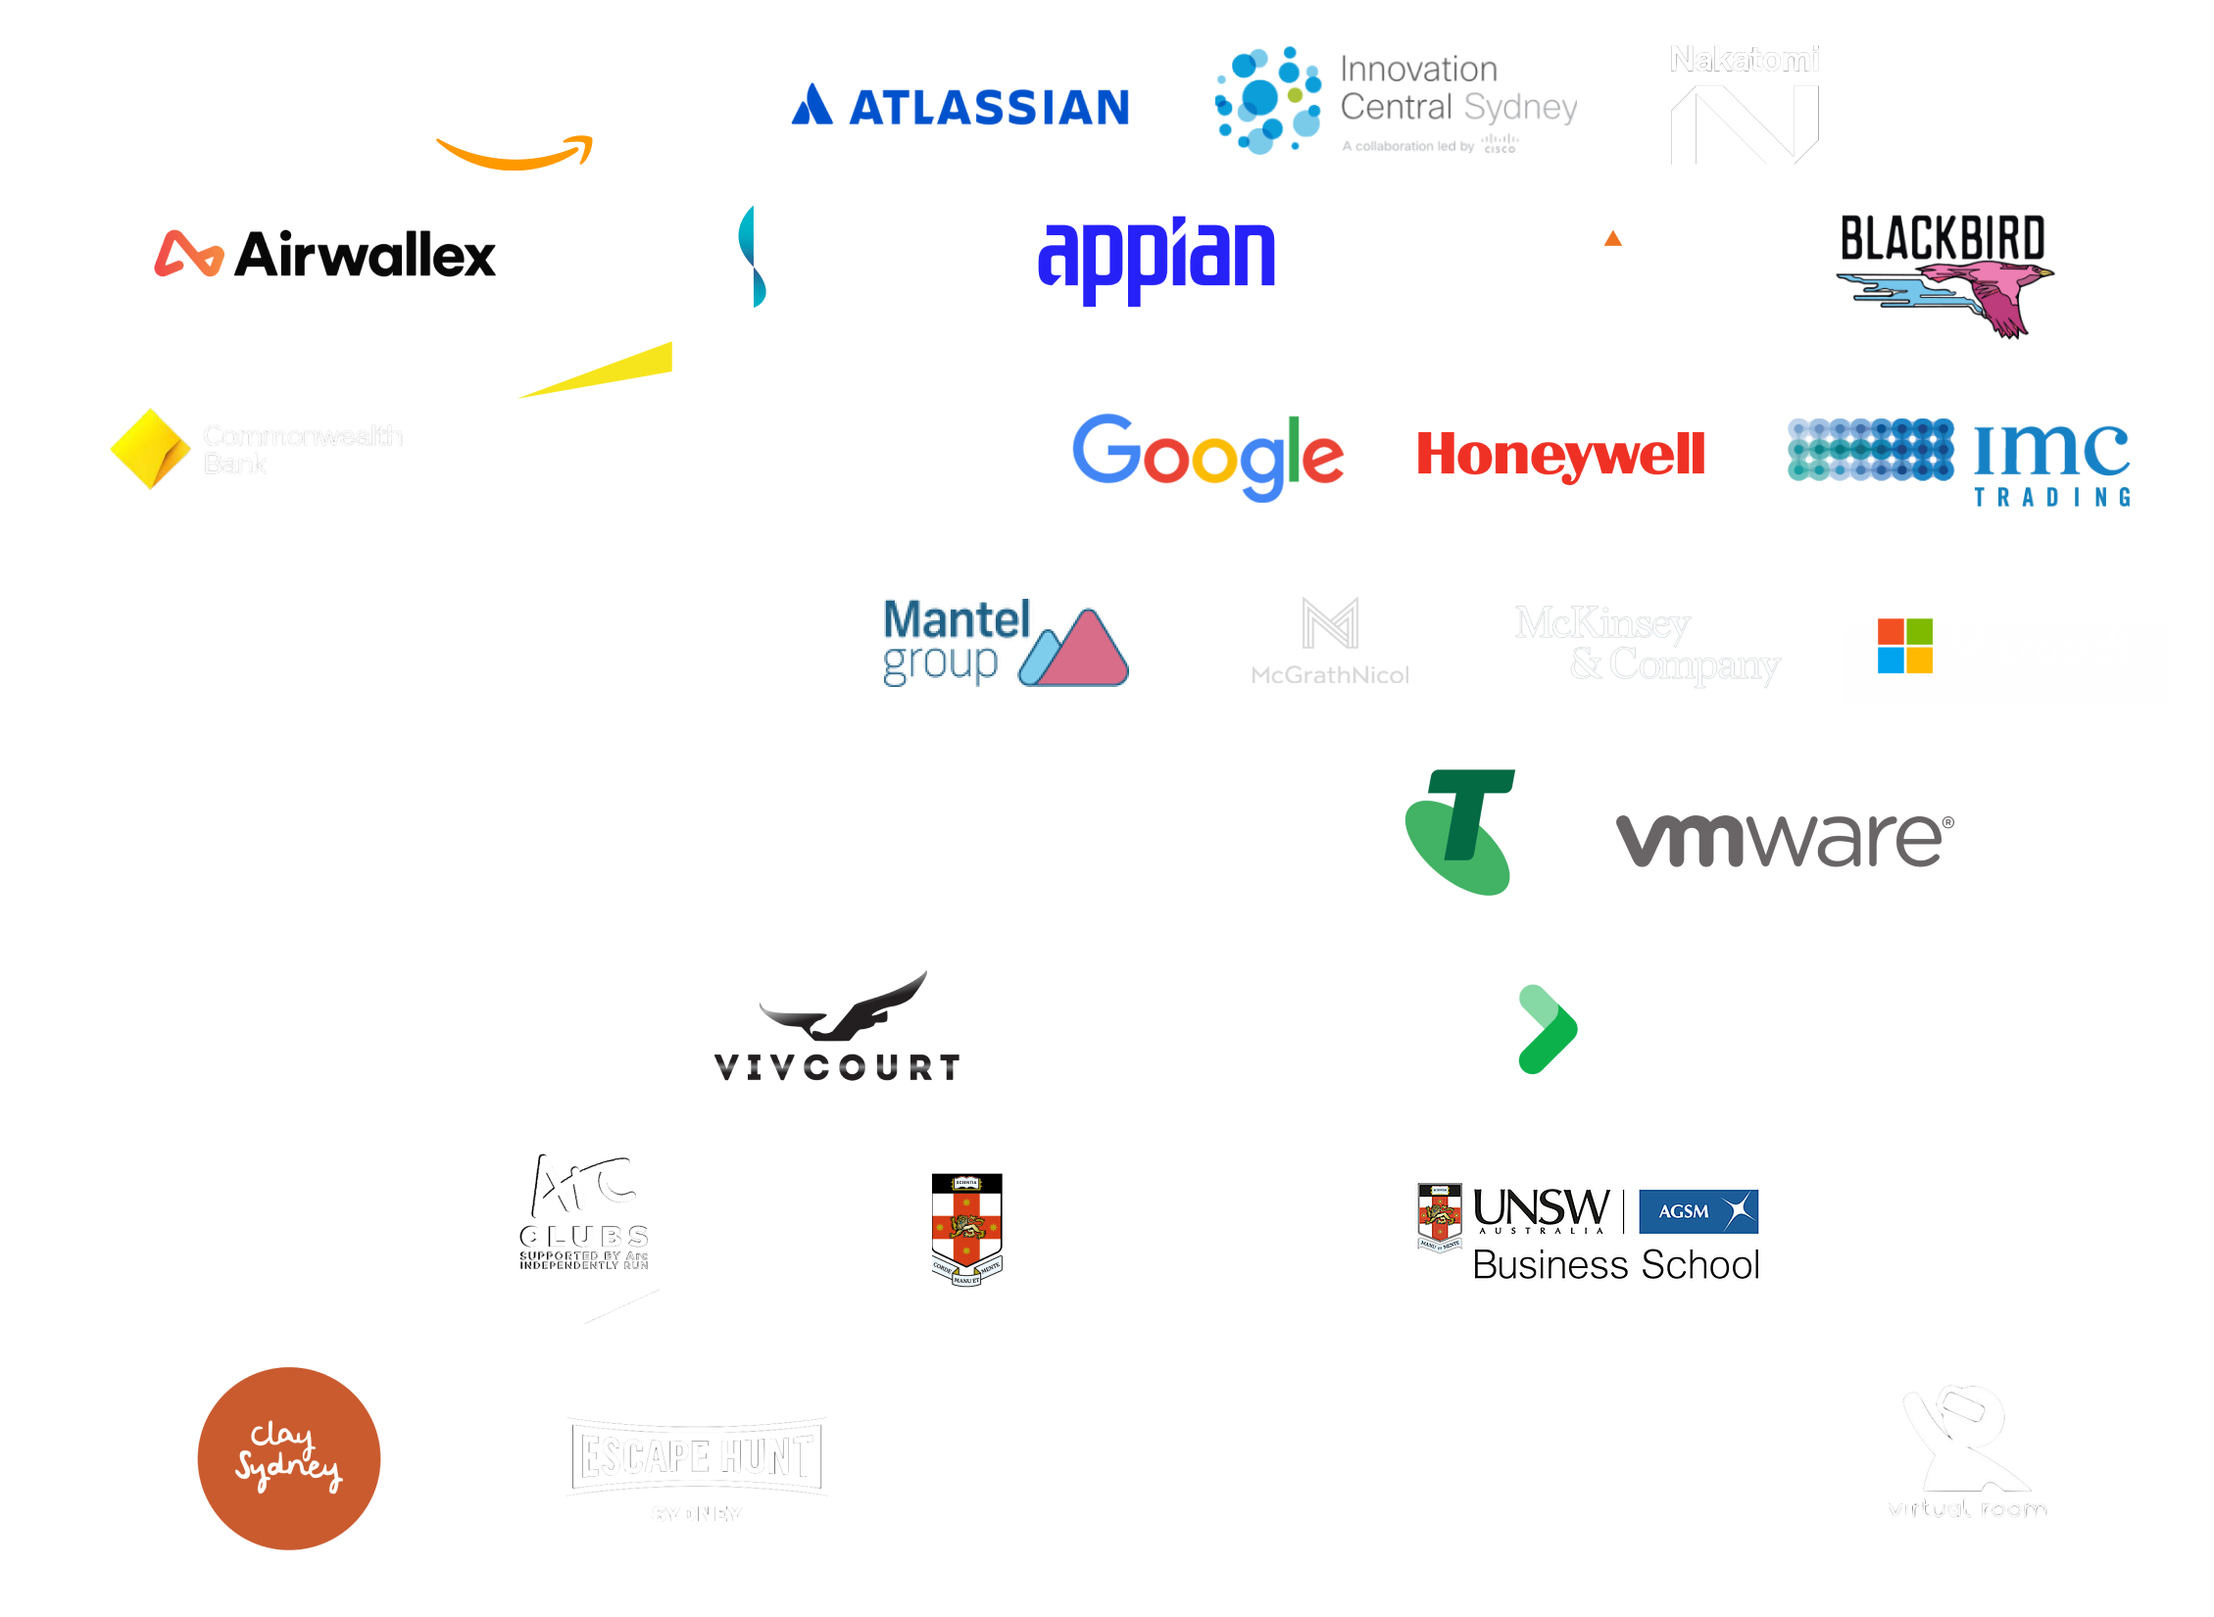
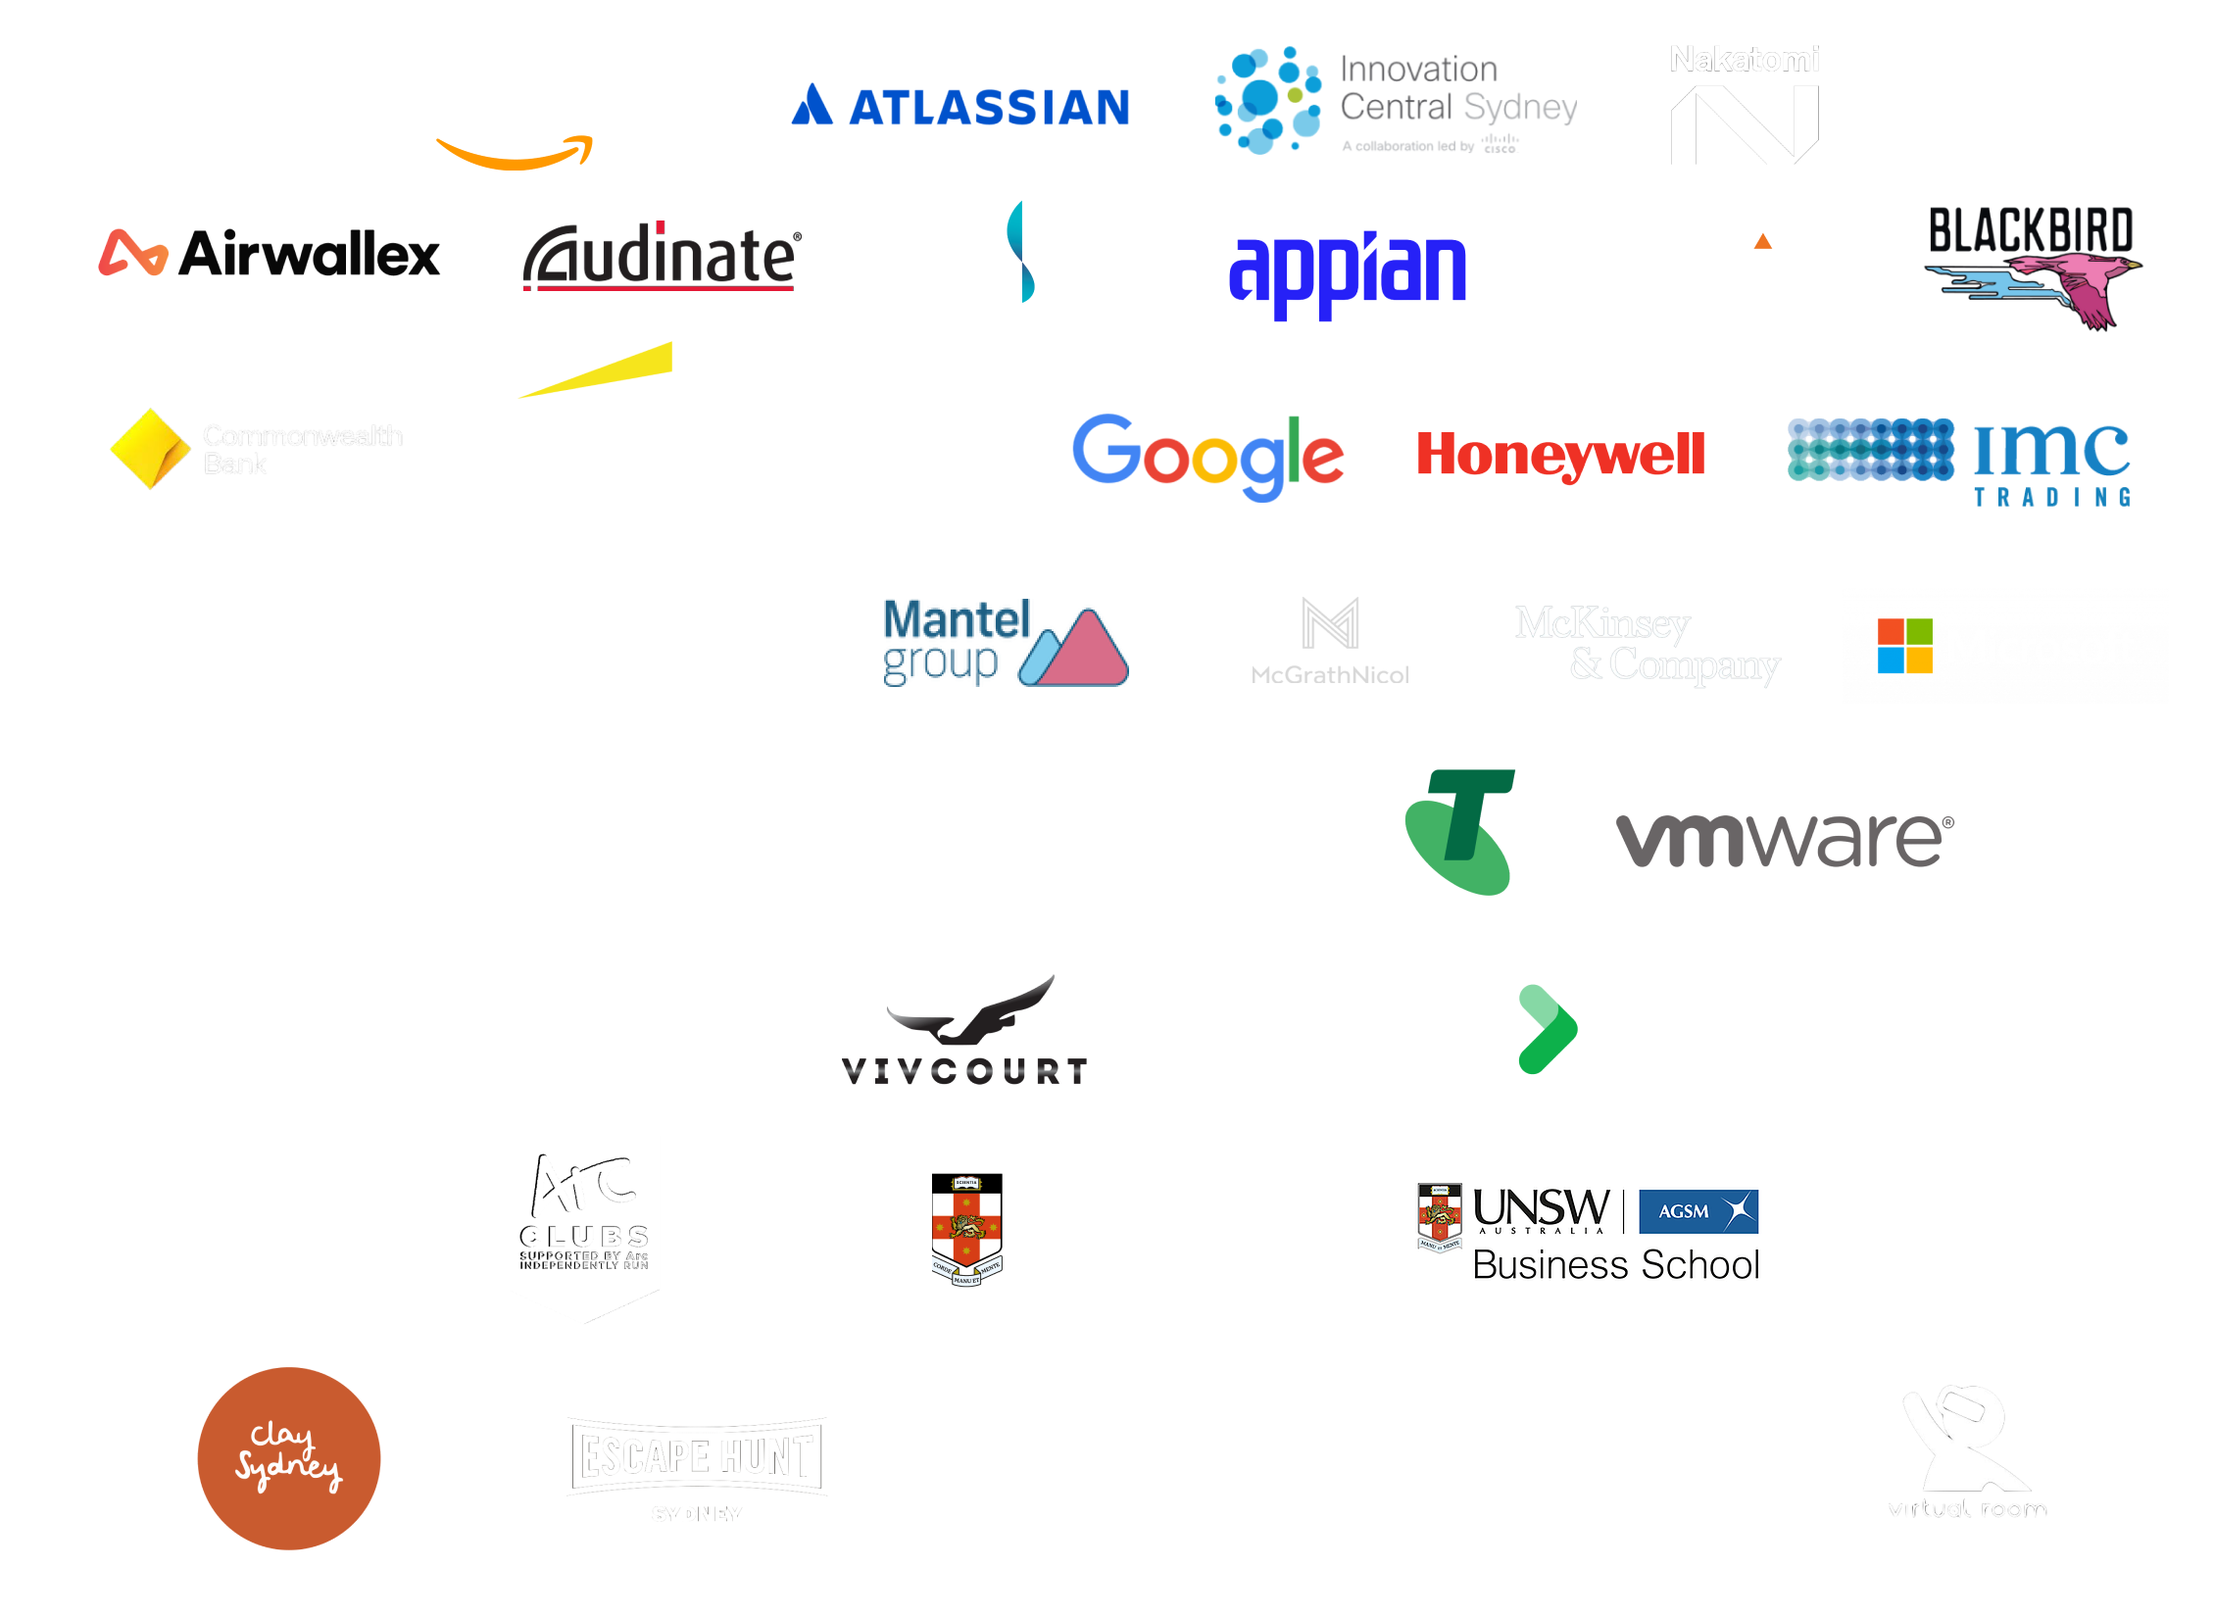
feat(frontend): add audinate (#52)
* feat(frontend): add audinate

* chore(frontend): replace sponsor collage and ci

* chore(ci): remove formatting from pipeline

* feat(frontend): update dark mode logo and clean up description

diff --git a/frontend/pages/media/videos.tsx b/frontend/pages/media/videos.tsx
@@ -87,7 +87,10 @@ const Videos = ({ videos }: any) => {
     setHeaderLoading(false);
     setSourceLoading(false);
     setVideoNumber(handleVideoNumber(videos.length));
-    loadVideoPreviews(videos, loadPageContent(videos, handleVideoNumber(videos.length)));
+    loadVideoPreviews(
+      videos,
+      loadPageContent(videos, handleVideoNumber(videos.length))
+    );
   };
 
   useEffect(() => {
@@ -98,7 +101,7 @@ const Videos = ({ videos }: any) => {
   useEffect(() => {
     if (currentPosts.length === 0 && loading === false) {
       setEmptyCategory(true);
-      console.error = () => { };
+      console.error = () => {};
     } else {
       setEmptyCategory(false);
     }
@@ -160,10 +163,12 @@ const Videos = ({ videos }: any) => {
     return videos.map((video: any, index: number) => {
       return (
         <div className={styles.videoDescription} key={index}>
-          <a href={'https://www.youtube.com/watch?v=' + video.fields.embedUrl} target="_blank" rel="noopener noreferrer">
-            <div
-              className={styles.boxContainer}
-            >
+          <a
+            href={'https://www.youtube.com/watch?v=' + video.fields.embedUrl}
+            target="_blank"
+            rel="noopener noreferrer"
+          >
+            <div className={styles.boxContainer}>
               <div className={styles.darkOverlay} />
               <div className={styles.previewContainer}>
                 <Image
@@ -249,7 +254,9 @@ const Videos = ({ videos }: any) => {
                     />
                   </div>
                   <p className={styles.videoName}>{video.fields.title}</p>
-                  <p className={styles.videoDate}>{formatDate(video.fields.date)}</p>
+                  <p className={styles.videoDate}>
+                    {formatDate(video.fields.date)}
+                  </p>
                 </div>
               </div>
               <p className={styles.subHeading}>More From WIT</p>

diff --git a/frontend/styles/Navbar.module.css b/frontend/styles/Navbar.module.css
@@ -23,8 +23,7 @@
 
 .navBarGrid {
   display: grid;
-  grid-template:
-    'logo empty empty empty empty home aboutUs events opportunities media joinUs';
+  grid-template: "logo empty empty empty empty home aboutUs events opportunities media joinUs";
   align-items: center;
   height: 100%;
 }
@@ -147,7 +146,8 @@
   background-color: var(--light-yellow);
   opacity: 0;
   border-radius: 0px 0px 15px 15px;
-  transition: background-color 0.2s, border-radius 0.2s, opacity 0.2s, visibility 0.2s;
+  transition: background-color 0.2s, border-radius 0.2s, opacity 0.2s,
+    visibility 0.2s;
 }
 
 .clearDropdownContent {
@@ -189,7 +189,7 @@
   cursor: pointer;
 }
 
-.dropdownItemEnd:hover a{
+.dropdownItemEnd:hover a {
   color: var(--red);
   transition: color 0.3s, opacity 0.2s, visibility 0.2s;
 }
@@ -207,8 +207,7 @@
 /*------------------------------Compact Navbar--------------------------------*/
 .compactNavBarGrid {
   display: grid;
-  grid-template:
-    'logo empty empty empty empty empty menuIcon';
+  grid-template: "logo empty empty empty empty empty menuIcon";
   align-items: center;
   height: 99%;
 }
@@ -350,7 +349,6 @@
   font-weight: bold;
 }
 
-
 /*--- Dark mode ---*/
 @media (prefers-color-scheme: dark) {
   .navBarContainer {
@@ -380,7 +378,7 @@
   .menuItemEnd {
     color: var(--white);
   }
-} 
+}
 
 @media only screen and (max-width: 1280px) {
   .dropdownContent {
@@ -404,22 +402,22 @@
   .navBarContainer {
     height: 8%;
   }
-} 
+}
 
 @media only screen and (max-height: 550px) {
   .navBarContainer {
     height: 10%;
   }
-} 
+}
 
 @media only screen and (max-height: 420px) {
   .navBarContainer {
     height: 15%;
   }
-} 
+}
 
 @media only screen and (max-height: 300px) {
   .navBarContainer {
     height: 18%;
   }
-} 
+}

diff --git a/frontend/data/sponsor.js b/frontend/data/sponsor.js
@@ -1,5 +1,34 @@
 import styles from '../styles/Sponsors.module.css';
 
+const audinateDescription = () => {
+  return (
+    <>
+      <p>
+        Audinate is an Australian technology company with global impact, leading
+        the world in networked media. Audinate’s &quot;Dante&quot; technology is used
+        extensively in professional audio / video installations worldwide
+        including live events, broadcast, entertainment venues and
+        communications systems.
+      </p>
+      <p>
+        Dante is available in over 3,000 products from more than 500
+        manufacturers, covering a diverse range of installations and
+        applications across industries, including the Sydney Opera House, on set
+        at films like La La Land, in stadiums such as Target Field and the Paris
+        La Defense Arena, and even at hotels, restaurants, and places of
+        worship.
+      </p>
+      <p>
+        When you’re part of the team at Audinate, your ambition extends as far
+        as our reach. With globally recognized technology and business
+        operations, no matter what your role you’ll contribute to our growth and
+        play a part in the future of game-changing solutions, forever
+        influencing how people experience AV.
+      </p>
+    </>
+  );
+};
+
 const nakatomiDescription = () => {
   return (
     <>
@@ -391,6 +420,13 @@ const sponsors = {
     'atlassian-major.png',
     'DIAMOND',
     placeHolderDescription(),
+  ],
+  Audinate: [
+    'Audinate',
+    'https://www.audinate.com/',
+    'audinate.png',
+    'GOLD',
+    audinateDescription(),
   ],
   Appian: [
     'Appian',

diff --git a/frontend/components/PublicationsArticle.tsx b/frontend/components/PublicationsArticle.tsx
@@ -7,24 +7,24 @@ import { formatPublicationsDate } from '../lib/helpers/date';
 export default function PubArticle(props: any) {
   return (
     <div className={styles.article}>
-        {/*Start of publications article*/}
-        <div className={styles.dark} />
-        <div className={styles.articleImg}>
-          <Image src={props.imgUrl} alt="wit logo" layout={'fill'} />
-        </div>
-
-        <div className={styles.textContainer}>
-          <h2>{props.heading}</h2>
-          <p>{formatPublicationsDate(props.date)}</p>
-          <div tabIndex={0} role="button" className={styles.button}>
-            <Link href={props.url}>
-              <a target="_blank" rel="noopener noreferrer">
-                Read More
-              </a>
-            </Link>
-          </div>
-        </div>
-        {/*End of publications article*/}
+      {/*Start of publications article*/}
+      <div className={styles.dark} />
+      <div className={styles.articleImg}>
+        <Image src={props.imgUrl} alt="wit logo" layout={'fill'} />
       </div>
+
+      <div className={styles.textContainer}>
+        <h2>{props.heading}</h2>
+        <p>{formatPublicationsDate(props.date)}</p>
+        <div tabIndex={0} role="button" className={styles.button}>
+          <Link href={props.url}>
+            <a target="_blank" rel="noopener noreferrer">
+              Read More
+            </a>
+          </Link>
+        </div>
+      </div>
+      {/*End of publications article*/}
+    </div>
   );
-};
+}

diff --git a/frontend/pages/opportunities.tsx b/frontend/pages/opportunities.tsx
@@ -74,15 +74,17 @@ const Opportunities = ({ opportunities }: any) => {
                   .
                 </p>
                 <div className={styles.oppGridContainer}>
-                  {opportunities.map((individualOpportunity: any, index: number) => {
-                    return (
-                      <OpportunitiesCard
-                        key={index}
-                        individualOpportunity={individualOpportunity}
-                        index={index}
-                      />
-                    );
-                  })}
+                  {opportunities.map(
+                    (individualOpportunity: any, index: number) => {
+                      return (
+                        <OpportunitiesCard
+                          key={index}
+                          individualOpportunity={individualOpportunity}
+                          index={index}
+                        />
+                      );
+                    }
+                  )}
                 </div>
               </div>
             ))}

diff --git a/frontend/lib/api.tsx b/frontend/lib/api.tsx
@@ -60,14 +60,15 @@ export async function loadPodcasts() {
 }
 
 export async function loadVideos() {
-  const res = await client.getEntries({
-    content_type: 'video',
-    select: 'fields',
-    order: 'fields.episodeNo'
-  })
-  .catch((error) => {
-    console.error(error);
-  });
+  const res = await client
+    .getEntries({
+      content_type: 'video',
+      select: 'fields',
+      order: 'fields.episodeNo',
+    })
+    .catch((error) => {
+      console.error(error);
+    });
   return res.items;
 }
 
@@ -132,4 +133,3 @@ export async function loadBlogPreviews() {
     });
   return res.items;
 }
-

diff --git a/frontend/components/Initiative.tsx b/frontend/components/Initiative.tsx
@@ -7,16 +7,8 @@ export default function Initiative(props: any) {
   return (
     <li>
       <Link href={props.fb}>
-        <a
-          className={styles.darken}
-          target="_blank"
-          rel="noopener noreferrer"
-        >
-          <Image
-            src={props.imgUrl}
-            alt={props.alt}
-            layout={'fill'}
-          />
+        <a className={styles.darken} target="_blank" rel="noopener noreferrer">
+          <Image src={props.imgUrl} alt={props.alt} layout={'fill'} />
           <div className={styles.message}>{props.date}</div>
         </a>
       </Link>

diff --git a/frontend/components/MobileNavBar.tsx b/frontend/components/MobileNavBar.tsx
@@ -6,7 +6,12 @@ import styles from '../styles/Navbar.module.css';
 import { navigationBarContent } from '../data/navbar';
 import MenuIcon from '@material-ui/icons/Menu';
 import CloseIcon from '@material-ui/icons/Close';
-import { changeAboutUsToArrowDown, changeAboutUsToArrowRight, changeMediaToArrowDown, changeMediaToArrowRight } from '../lib/helpers/navbar';
+import {
+  changeAboutUsToArrowDown,
+  changeAboutUsToArrowRight,
+  changeMediaToArrowDown,
+  changeMediaToArrowRight,
+} from '../lib/helpers/navbar';
 
 const Navbar = () => {
   const [clearNavBar, setClearNavBar] = useState(true);

diff --git a/frontend/components/NavigationBar.tsx b/frontend/components/NavigationBar.tsx
@@ -5,7 +5,12 @@ import Image from 'next/image';
 import styles from '../styles/Navbar.module.css';
 import Navbar from './MobileNavBar';
 import { navigationBarContent } from '../data/navbar';
-import { changeAboutUsToArrowDown, changeAboutUsToArrowRight, changeMediaToArrowDown, changeMediaToArrowRight } from '../lib/helpers/navbar';
+import {
+  changeAboutUsToArrowDown,
+  changeAboutUsToArrowRight,
+  changeMediaToArrowDown,
+  changeMediaToArrowRight,
+} from '../lib/helpers/navbar';
 
 const NavigationBar = () => {
   const [clearNavBar, setClearNavBar] = useState(false);

diff --git a/frontend/pages/about/our-team.tsx b/frontend/pages/about/our-team.tsx
@@ -48,10 +48,16 @@ const OurTeam = ({ execs, subcommittee }: any) => {
       (exec: any) => exec.fields.yearJoined === year
     );
 
-    const result = tempExecs.reduce(function (result: any, _: any, index: number, tempExecs: any) {
+    const result = tempExecs.reduce(function (
+      result: any,
+      _: any,
+      index: number,
+      tempExecs: any
+    ) {
       if (index % 2 === 0) result.push(tempExecs.slice(index, index + 2));
       return result;
-    }, []);
+    },
+    []);
     setFilteredExecs(result);
 
     // Subcom

diff --git a/frontend/pages/media/publications.tsx b/frontend/pages/media/publications.tsx
@@ -68,7 +68,8 @@ const Publications = ({ publications }: any) => {
                           .filter(
                             (publication) =>
                               publication.fields.year === year.toString()
-                          ).map((publication, index) => (
+                          )
+                          .map((publication, index) => (
                             <PubArticle
                               key={index}
                               imgUrl={

diff --git a/frontend/components/Header.tsx b/frontend/components/Header.tsx
@@ -2,12 +2,12 @@ import React, { useEffect, useState } from 'react';
 import Image from 'next/image';
 
 interface Header {
-  imageLoading?: any,
-  imgUrl: string,
-  title: string,
+  imageLoading?: any;
+  imgUrl: string;
+  title: string;
 }
 
-const PageHeader = ({ imageLoading, imgUrl, title }: Header ) => {
+const PageHeader = ({ imageLoading, imgUrl, title }: Header) => {
   const [imageLoaded, setImageLoaded] = useState(false);
 
   useEffect(() => {
